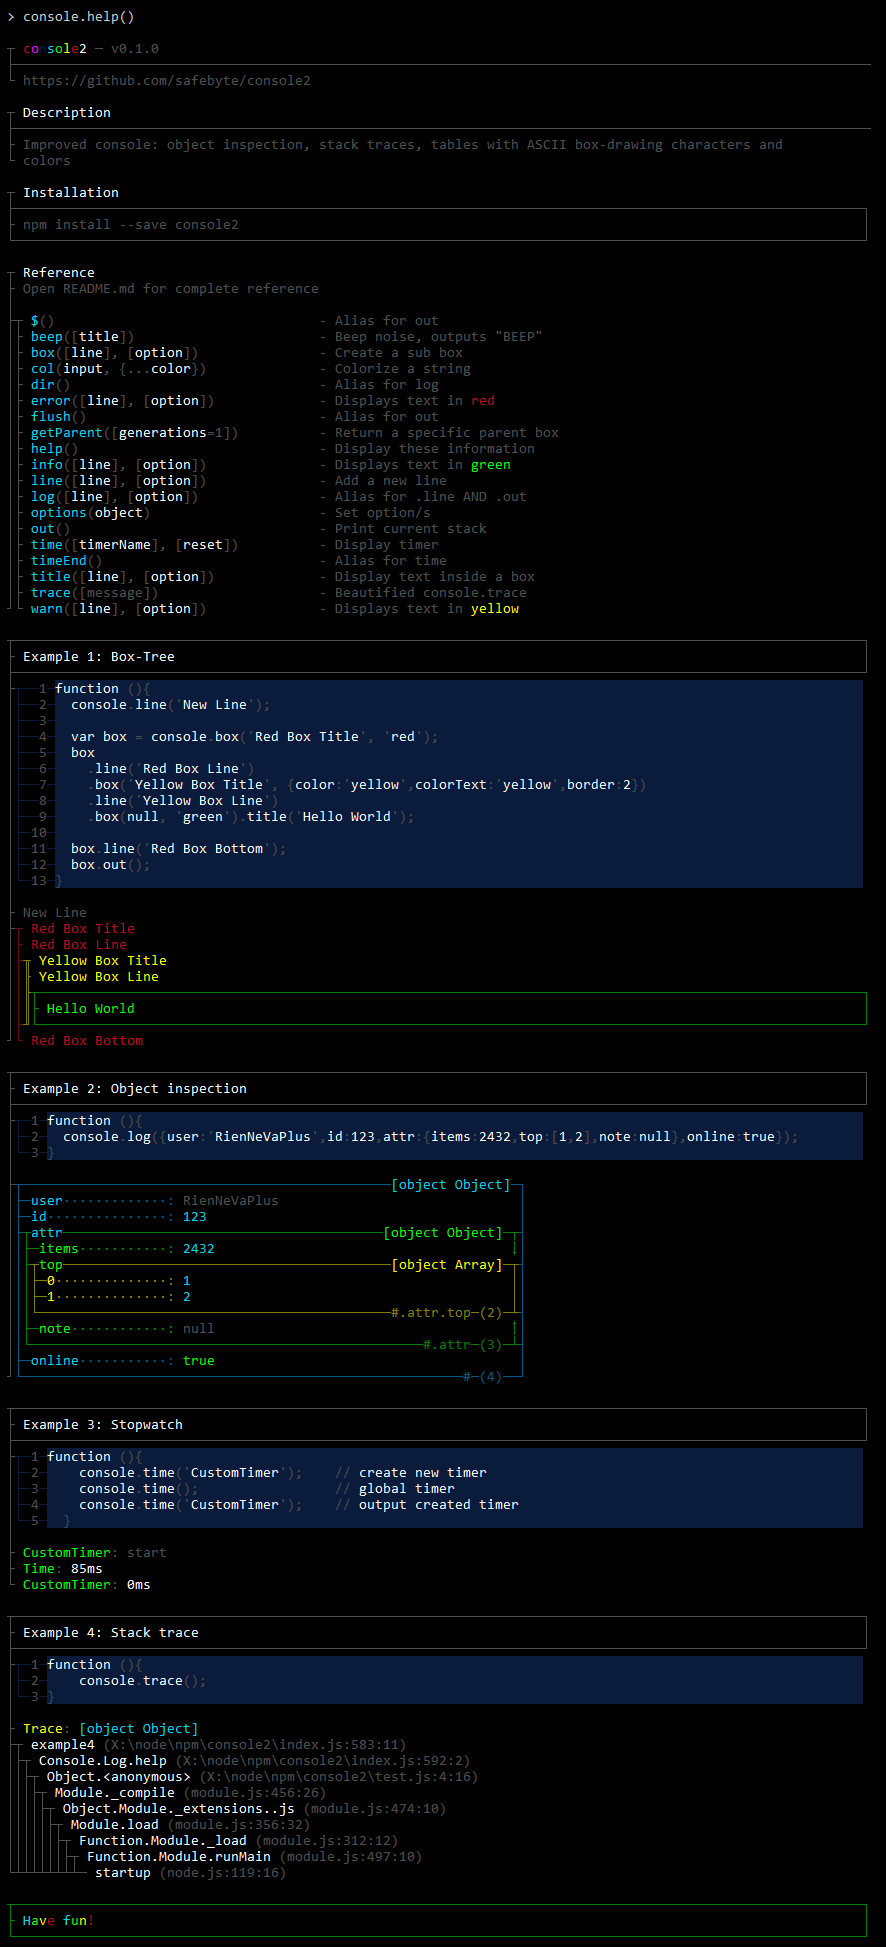
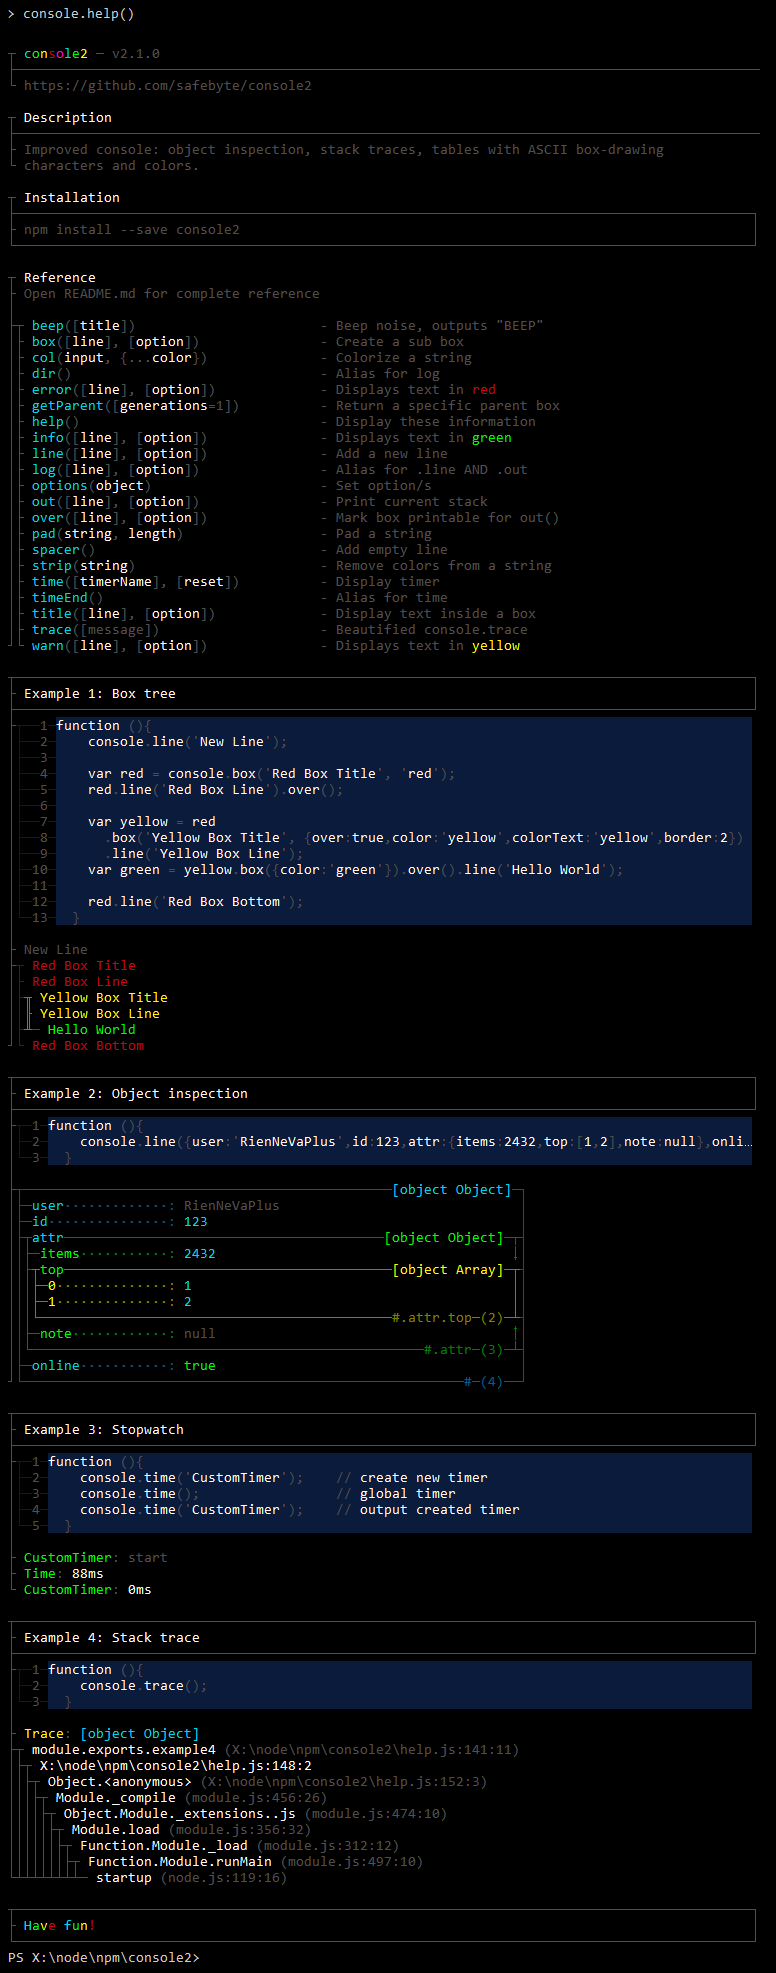
2.1.0

diff --git a/index.js b/index.js
@@ -26,6 +26,10 @@ function Log(parent, opt){
 	this.strip = Log.strip;
 	this.pad = Log.pad;
 
+	// set color to colorText by default
+	if(typeof opt == 'object' && opt.color && !opt.colorText)
+		opt.colorText = opt.color;
+
 	// default options
 	this.opt = Log.extend({
 		console:    null,                                   // object to receive the output of console2
@@ -35,7 +39,7 @@ function Log(parent, opt){
 		addNewline: false,                                  // add new line after every out call
 		enableAutoOut: false,                               // enable auto out calls
 		override:   true,                                   // override nodes console
-		ready:      false                                   // box status
+		over:       false                                   // box status
 	}, opt||{});
 
 	// is direct log
@@ -414,10 +418,7 @@ Log.prototype.options = function(opt){
 
 	// handle options('string') - color and 'ready'
 	if(typeof opt == 'string'){
-		if(opt == 'ready')
-			opt = {ready:true};
-		else
-			opt = {color:opt};
+		opt = {color:opt};
 	}
 	// handle options(2) - border width
 	else if(opt === 1 || opt === 2){
@@ -449,10 +450,9 @@ Log.prototype.box = function(line, opt){
 	if(arguments.length == 1){
 		// line could be either an option or a line
 		if(typeof line == 'string'){
-			// check if line is option
-			if(line == 'ready' || Log.chalkColors.indexOf(line) > -1 || Log.chalkCommands.indexOf(line) > -1){
-				opt = line;
-				line = null;
+			// check if line is color
+			if(Log.chalkColors.indexOf(line) > -1 || Log.chalkCommands.indexOf(line) > -1){
+				opt = {color:line};
 			}
 		}
 		// line is no string and therefore an option
@@ -628,6 +628,7 @@ Log.prototype.error = function(){
 	// add red
 	args.push('red');
 
+	Log.console.log('THIS', this);
 	// log
 	this.line.apply(this, args);
 	this.out('error');
@@ -811,7 +812,7 @@ Log.prototype.trace = function(message){
 		if(i == 0)
 			return box = this.line(line);
 
-		box = box.box(line).ready();
+		box = box.box(line).over();
 	}.bind(this));
 
 	box._autoOut();
@@ -896,7 +897,7 @@ Log.prototype._buildString = function(callback, preserveLines){
 		async.each(log.lines, function(line, callbackLines){
 			// sub box
 			if(this._instanceof(line)){
-				return line.opt.ready ? walk(line, callbackLines) : callbackLines();
+				return line.opt.over ? walk(line, callbackLines) : callbackLines();
 			}
 
 			// format
@@ -1140,7 +1141,7 @@ Log.prototype._buildString = function(callback, preserveLines){
  *
  * @returns {undefined|Log}
  */
-Log.prototype.ready = function(){
+Log.prototype.over = function(){
 	var args = Array.prototype.slice.call(arguments);
 
 	// mimic .line
@@ -1148,7 +1149,7 @@ Log.prototype.ready = function(){
 		this.line.apply(this, args);
 
 	// set ready
-	this.opt.ready = true;
+	this.opt.over = true;
 
 	// end
 	return this._return();
@@ -1164,7 +1165,13 @@ Log.prototype.out = function(method){
 	if(!method) method = 'log';
 
 	// mark as ready to print
-	this.opt.ready = true;
+	this.opt.over = true;
+
+	// enable .line args
+	if(method && Object.keys(Log.console).indexOf(method) < 0){
+		var args = Array.prototype.slice.call(arguments);
+		this.line.apply(this, args);
+	}
 
 	// use parent out when available
 	if(this.parent){
@@ -1190,20 +1197,6 @@ Log.prototype.out = function(method){
 
 	return this._return();
 };
-
-/**
- * $ - Alias for this.out
- *
- * @type {Function}
- */
-Log.prototype.$ = Log.prototype.out;
-
-/**
- * flush - Alias for this.out
- *
- * @type {Function}
- */
-Log.prototype.flush = Log.prototype.out;
 
 /**
  * Return a specific parent for _buildString structure
@@ -1383,7 +1376,7 @@ Log.prototype._object = function(obj, data){
 
 		// create sub box
 		var keys = Object.keys(objSub);
-		var box = parent.box().ready();
+		var box = parent.box().over();
 
 		// calc colors
 		var color = data.colors[(box.level-this.level-1) % data.colors.length];

diff --git a/help.js b/help.js
@@ -33,12 +33,11 @@ module.exports = (function(){
 		._()
 		.box();
 
-	ref.ready();
+	ref.over();
 
 	// reference
 	var lineArgs = '['+col('line', 'white')+'], ['+console.col('option', 'white')+']';
 	var docs = {
-		$: '~out',
 		beep: ['Beep noise, outputs "BEEP"', '['+console.col('title', 'white')+']'],
 		box: ['Create a sub box', lineArgs],
 		col: ['Colorize a string', col('input', 'white')+', {...'+col('color', 'white')+'}'],
@@ -51,7 +50,11 @@ module.exports = (function(){
 		line: ['Add a new line', lineArgs],
 		log: ['Alias for .line AND .out', lineArgs],
 		options: ['Set option/s', col('object', 'white')],
-		out: 'Print current stack',
+		out: ['Print current stack', lineArgs],
+		over: ['Mark box printable for out()', lineArgs],
+		pad: ['Pad a string', col('string', 'white')+', '+console.col('length', 'white')],
+		spacer: 'Add empty line',
+		strip: ['Remove colors from a string', col('string', 'white')],
 		time: ['Display timer', '['+col('timerName', 'white')+'], ['+col('reset', 'white')+']'],
 		timeEnd: '~time',
 		title: ['Display text inside a box', lineArgs],
@@ -87,19 +90,19 @@ module.exports = (function(){
 		console.line('New Line');
 
 		var red = console.box('Red Box Title', 'red');
-		red.line('Red Box Line').ready();
+		red.line('Red Box Line').over();
 
 		var yellow = red
-			.box('Yellow Box Title', {ready:true,color:'yellow',colorText:'yellow',border:2})
+			.box('Yellow Box Title', {over:true,color:'yellow',colorText:'yellow',border:2})
 			.line('Yellow Box Line');
-		var green = yellow.box({color:'green',ready:true}).line('Hello World');
+		var green = yellow.box({color:'green'}).over().line('Hello World');
 
 		red.line('Red Box Bottom');
 	};
 
 	// example
-	console.spacer().title('Example 1: Box-Tree', 'bold');
-	console._(example1)._();
+	console.spacer().title('Example 1: Box tree', 'bold');
+	console.line(example1).line();
 
 	example1();
 
@@ -112,7 +115,7 @@ module.exports = (function(){
 
 	// example
 	console.spacer().title('Example 2: Object inspection', 'bold');
-	console._(example2)._();
+	console.line(example2).line();
 
 	example2();
 
@@ -127,7 +130,7 @@ module.exports = (function(){
 
 	// example
 	console.spacer().title('Example 3: Stopwatch', 'bold');
-	console._(example3)._();
+	console.line(example3).line();
 
 	example3();
 
@@ -140,10 +143,10 @@ module.exports = (function(){
 
 	// example
 	console.spacer().title('Example 4: Stack trace', 'bold');
-	console._(example4)._();
+	console.line(example4).line();
 
 	example4();
 
 	console.spacer().title(console.col('Have fun!', 'rainbow'));
-	console.$();
+	console.out();
 })();

diff --git a/README.md b/README.md
@@ -37,7 +37,7 @@ console.help();
 
 ## Usage
 
-Console2 integrates seamlessly into the node `console`. However, you should make yourself familiar with the additional features, especially `box`, `line` & `out`.
+Console2 integrates seamlessly into the node `console`. However, you should make yourself familiar with the additional features, especially `box`, `line`, `over` & `out`.
 
 ```javascript
 require('console2')();
@@ -46,17 +46,24 @@ require('console2')();
 console.log("They're minerals! Jesus Christ, Marie.");
 // as you know and love it, native methods are fully supported
 
+// logs a string "the new way"
+console.line("You shall not pass (immediately)");
+// this queues your string until you call "console.out"
+// since boxes are 2 dimensional, you can't always print everything.
+// you need to collect your boxes, then print them, when you're good to go
+// read more on this: "It's simple, over and out."
+
 // insert empty line & start a timer
 console.spacer().time('TimerTim');
 
-// build a box
+// build a box - returns a new console instance
 var box = console.box('I am a child.');
 
 // add a line to our new box
 box.line('I am the 2nd line of the sub box!');
 
 // indicate that the box can be printed and there will be no more lines/boxes appended to it
-box.ready();
+box.over();
 
 // insert empty line & print timer
 console.spacer().time('TimerTim');
@@ -71,6 +78,90 @@ console.out();
 #### Result
 
 <img src="media/usage.png" />
+
+# Managing boxes. **Over** and **Out**.
+
+The main feature is the generation of *easy-to-read ASCII box-drawing character sections* - short: **boxes**.
+
+```
+// returns a new console instance which acts as a child box
+var box = console.box();
+```
+
+These boxes are 2 dimensional (meaning they depend on the previous / following lines), you can no longer *just stdout a line* when building a box. Doing so would result in a big mess of lines without any context to each other, because of the [nature of time](https://en.wikipedia.org/wiki/Asynchronous_operation). Imagine you want to log the process of updating a database inside a single box, whilst complimenting yourself:
+
+```
+box.log('Trying database update');
+setTimeout(function mimicDatabaseUpdate(){
+   box.log('Database updated');
+}, 1);
+console.log('You look gorgeous!');
+
+// expected output:
+// ├ You look gorgeous
+// ├─ Starting database update
+// └─ Database updated
+
+// actual output:
+// ├─ Starting database update
+// ├ You look gorgeous
+// └─ Database updated
+```
+
+#### *"Houston we have a problem."*
+
+As you see, you need to wait until you are done adding new lines before you can print a box. The solution is simple: ~~You~~ **We queue stuff**.
+Instead of `console.log`, use `console.line`. It does the same thing, except for calling `stdout` (it's not printing the line).
+
+```
+box.line('Trying database update');
+setTimeout(function mimicDatabaseUpdate(){
+   box.line('Database updated');
+}, 1);
+console.log('You look gorgeous!');
+```
+
+*But now there's only the part where I compliment myself?* Right, here's what happened: You've added a line, then printed everything *that's ready* (`console.log` did that) and finally added another line to your box. But you didn't mark the box as **over** / *ready* and therefore console2 thinks you might want to add more lines.
+
+#### "No you don't. Over and out!"
+
+```
+   // ...
+   box.line('Database updated').out();
+   // ..
+```
+
+By calling `console.out()` (or in this case `box.out()`) **you tell** the parent of all boxes **to print** every child box *that's ready*.
+
+**Pro-Tip:** *`out` can take the same arguments as `line` does. So you could simplify the above to: `box.out('Database updated')`.*
+
+#### *"And what about over? Over."*
+
+You might run into situations where you want to mark a box as printable but don't want to print everything. For example when you're working on multiple child-boxes at once: you have to wait until every child box is done, before you can output the whole thing. That's what `box.over` is for:
+
+```
+var box = console.box('I am a box with children');
+var child1 = box.box('I am child #1');
+var child2 = box.box('I am child #2');
+
+async.each(arr, function iterate(data, callback){
+	child1.line('Processing item #1:', data);
+}, function onEnd(){
+	child1.over();
+});
+
+// you don't know if i'm faster or slower than the onEnd above!
+setTimeout(function(){
+	child2.line('Hello friend').over();
+}, 123);
+
+// i am some handy event in the future (or even an interval if you're a crazy person):
+function(){
+	console.out();
+}
+```
+
+**Pro-Tip:** *`over` can take the same arguments as `line` does. So you could simplify the above to: `box.over('Hello friend')`.*
 
 # Reference
 
@@ -93,8 +184,8 @@ Add a line.
 
 ***
 
-#### ``console.ready({...*}[, option])``
-Adds a line and sets the option `{ready:true}`
+#### ``console.over({...*}[, option])``
+Adds a line and sets the option `{over:true}`
 
 ***
 
@@ -158,11 +249,11 @@ Beautified `console.trace`.
 | color          | String        | grey      | Primary color                                   |
 | colorText      | String        | grey      | Text color                                      |
 | border         | Number        | 1         | Vertical border-width: `1` (`│`) or `2` (`║`)  |
-| ready          | Boolean       | `false`   | Allow output of box when a parent uses `out()`  |
 | console        | Object        | `console` | Object to receive the output of console2.out.<br>Needs to have the same properties as the `console`. |
-| addNewline     | Boolean       | false     | Adds a `\n` before every before every call of `console.out`.
-| disableAutoOut | Boolean       | false     | Console2 tries to detect whether to automatically call<br>`console.out` after new lines have been added. You can disable this.
-| override       | Boolean       | true      | Whether to override nodes `console`.<br>Can only be set when first calling the function returned by the module. |
+| over           | Boolean       | `false`   | Allow output of box when a parent uses `out()`  |
+| addNewline     | Boolean       | `false`   | Adds a `\n` before every before every call of `console.out`.
+| disableAutoOut | Boolean       | `false`   | Console2 tries to detect whether to automatically call<br>`console.out` after new lines have been added. You can disable this.
+| override       | Boolean       | `true`    | Whether to override nodes `console`.<br>Can only be set when first calling the function returned by the module. |
 
 **Shortcuts**
 
@@ -209,13 +300,11 @@ Alias exist to cover features of the native `console` or to provide shortcuts fo
 | Shortcut             | ⇔  | Alias                    |
 |:-------------------- | --:|:------------------------ |
 | console **._**       | ⇔ | console **.line**         |
-| console **.$**       | ⇔ | console **.out**          |
-| console **.flush**   | ⇔ | console **.out**          |
 | console **.info**    | ⇔ | console **.log** (green)  |
 | console **.warn**    | ⇔ | console **.log** (yellow) |
 | console **.error**   | ⇔ | console **.log** (red)    |
 | console **.dir**     | ⇔ | console **.log**          |
-| console **.timeEnd** | ⇔ | console **.log**          |
+| console **.timeEnd** | ⇔ | console **.time**          |
 
 ## Separate mode
 
